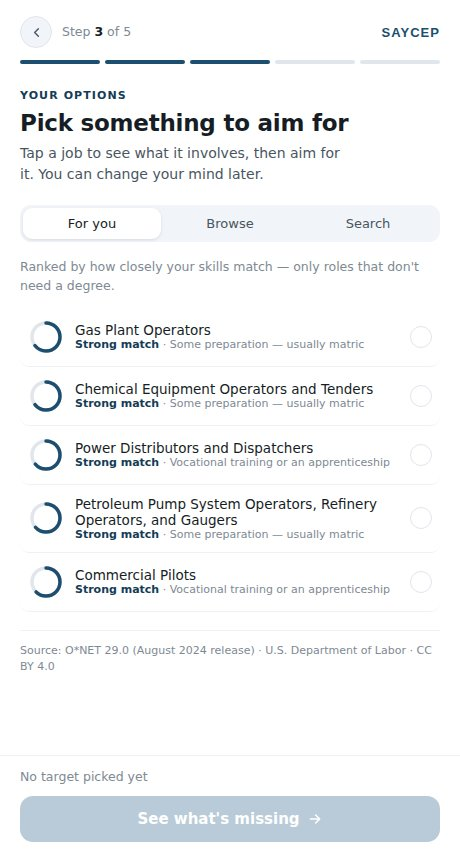
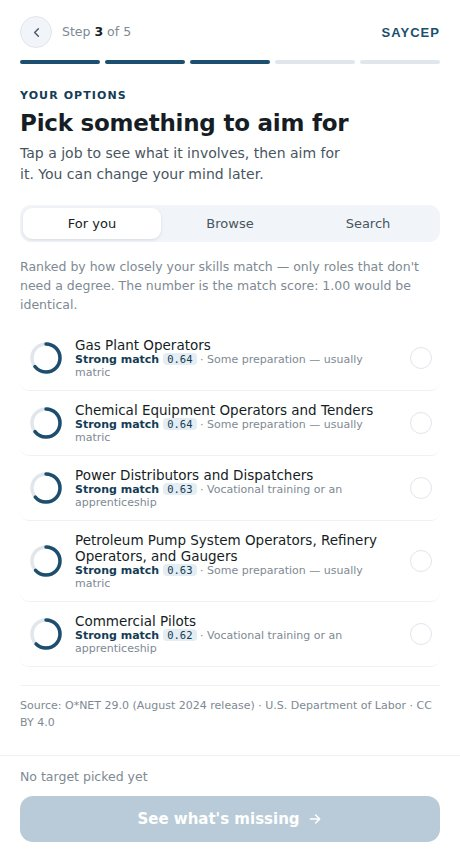
Show each recommendation's similarity score again (FR-06)
The plain-language pass moved the score behind ?presenter, which broke
FR-06's acceptance criterion ('each with its score'). The score now sits
beside the match label to two decimal places, with a one-line note on
what it means.

Claude-Session: https://claude.ai/code/session_01HBTAWDH1nx78sGjrRVHKPQ

diff --git a/frontend/app.js b/frontend/app.js
@@ -128,8 +128,9 @@ function OccRow({ occ, picked, onPick, score, match }) {
       ${score != null && html`<${Ring} score=${score} label=${match} />`}
       <span class="t">${occ.title}
         <span class="meta">
-          ${match && html`<b class="match">${match}</b>${" · "}`}${occ.preparation ? occ.preparation.label : ""}
-          <${Figure}>${occ.soc_code} · Zone ${occ.job_zone}${score != null ? ` · ${score.toFixed(3)}` : ""}<//>
+          ${match && html`<b class="match">${match}</b>
+            <span class="score mono" title="Similarity score (FR-06)">${score.toFixed(2)}</span>${" · "}`}${occ.preparation ? occ.preparation.label : ""}
+          <${Figure}>${occ.soc_code} · Zone ${occ.job_zone}<//>
         </span>
       </span>
       <span class="tick">${Icon.check}</span>
@@ -308,7 +309,8 @@ function StepExplore({ profileId, type, target, onOpen }) {
     ${tab === "foryou" && html`
       <p class="note">${leaver
         ? "Ranked by how closely your skills match — only roles that don't need a degree."
-        : "Ranked by how closely your skills match, across every preparation level."}</p>
+        : "Ranked by how closely your skills match, across every preparation level."}
+        ${" "}The number is the match score: 1.00 would be identical.</p>
       <${Status} loading=${recs.loading} error=${recs.error}>
         ${recs.data && html`<div class="list">
           ${recs.data.recommendations.map((r) => html`

diff --git a/frontend/styles.css b/frontend/styles.css
@@ -358,3 +358,4 @@ input{font-family:inherit}
 .day{margin:0 0 4px; padding-left:18px; display:flex; flex-direction:column; gap:6px; font-size:13px; color:var(--ink-2); line-height:1.45}
 .day li::marker{color:var(--accent)}
 .sheet .prep{margin-top:14px}
+.occ .meta .score{font-size:10.5px; color:var(--accent-ink); background:var(--accent-soft); border-radius:4px; padding:0 4px; margin-left:4px}
